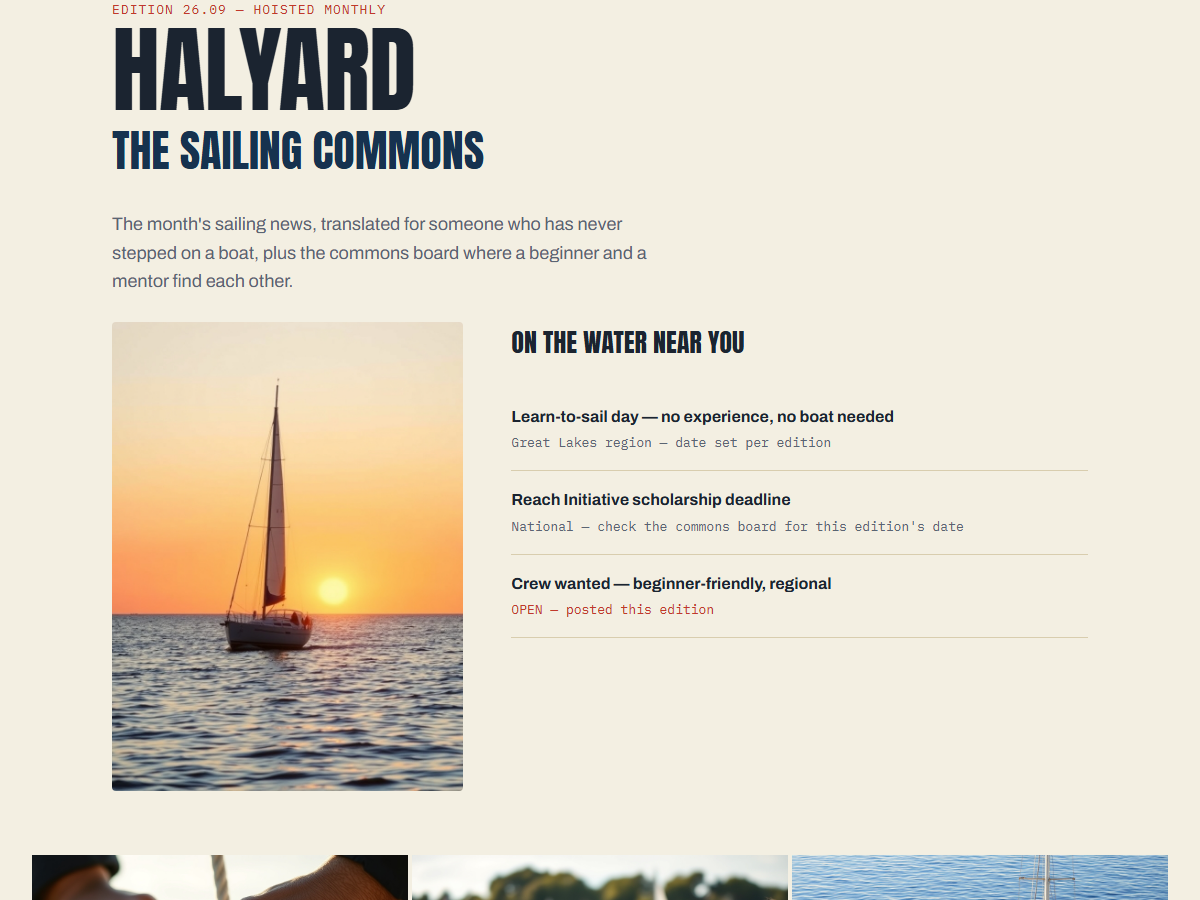
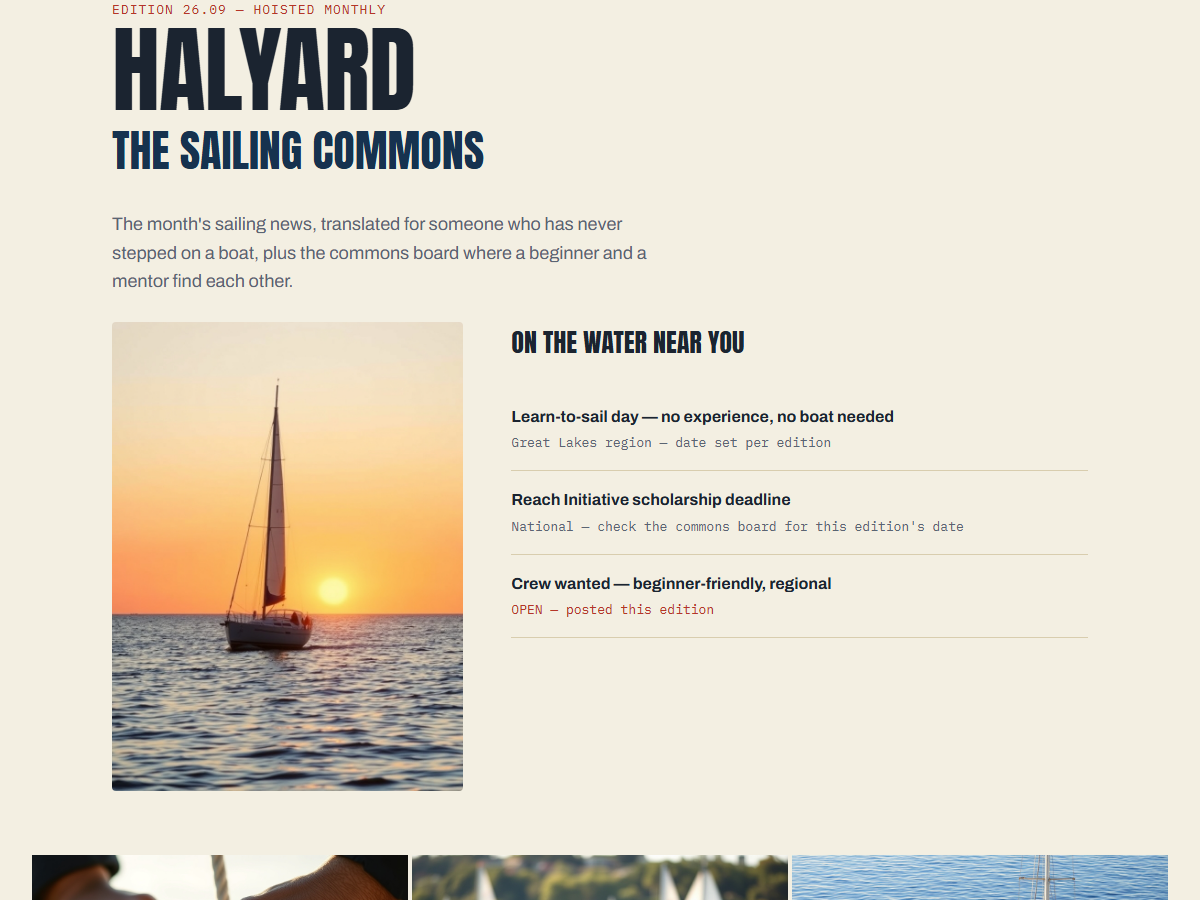
1.6265.1511: replace child imagery, honest image provenance
- Regenerate commons-grid-2.jpg: the 1.0.1 image depicted children, which
  isn't a class of demo content this theme ships regardless of generation
  quality, given the niche often serves youth sailing programs. Replaced
  with adult volunteers; alt text updated to match.
- Correct the Resources section to name the generator (FLUX.1 [schnell],
  Apache 2.0, via Cloudflare Workers AI) instead of only "synthetic".
- Adopt the collection-wide version scheme (1.Y{DDD}.{HHMM}, Toronto time).

Changed region(s): [[0.3392, 0.9333, 0.6783, 1.0]]

diff --git a/style.css b/style.css
@@ -4,7 +4,7 @@ Theme URI:          https://thisismyurl.com/downloads/halyard/
 Author:             Christopher Ross
 Author URI:         https://thisismyurl.com/
 Description:        A bold, condensed FSE theme for teaching-first sailing and community-education sites — a dated-edition front page, a commons-board classifieds layout, and a shipping-bulletin register that never assumes you already know the jargon. Built on the Colophon core.
-Version:            1.0.1
+Version:            1.6265.1511
 Requires at least:  6.7
 Requires PHP:       7.4
 Tested up to:       7.1

diff --git a/patterns/on-the-water.php b/patterns/on-the-water.php
@@ -76,7 +76,7 @@
 		<figure class="wp-block-image"><img src="<?php echo esc_url( get_theme_file_uri( 'assets/images/commons-grid-1.jpg' ) ); ?>" alt="<?php esc_attr_e( 'Two hands tying a knot in a rope at a deck fitting.', 'halyard' ); ?>" style="aspect-ratio:1;object-fit:cover"/></figure>
 		<!-- /wp:image -->
 		<!-- wp:image {"aspectRatio":"1"} -->
-		<figure class="wp-block-image"><img src="<?php echo esc_url( get_theme_file_uri( 'assets/images/commons-grid-2.jpg' ) ); ?>" alt="<?php esc_attr_e( 'Three children in buoyancy aids sitting on the grass beside a dinghy park, laughing.', 'halyard' ); ?>" style="aspect-ratio:1;object-fit:cover"/></figure>
+		<figure class="wp-block-image"><img src="<?php echo esc_url( get_theme_file_uri( 'assets/images/commons-grid-2.jpg' ) ); ?>" alt="<?php esc_attr_e( 'A group of adult sailing volunteers in life jackets, laughing together on a grassy shoreline with sailing dinghies on the water behind them.', 'halyard' ); ?>" style="aspect-ratio:1;object-fit:cover"/></figure>
 		<!-- /wp:image -->
 		<!-- wp:image {"aspectRatio":"1"} -->
 		<figure class="wp-block-image"><img src="<?php echo esc_url( get_theme_file_uri( 'assets/images/commons-grid-3.jpg' ) ); ?>" alt="<?php esc_attr_e( 'A small sailboat tied alongside a weathered wooden dock on flat water.', 'halyard' ); ?>" style="aspect-ratio:1;object-fit:cover"/></figure>

diff --git a/inc/bootstrap.php b/inc/bootstrap.php
@@ -44,7 +44,7 @@ define( 'HALYARD_SLUG', 'halyard' );
  * Theme version — cache-bust for enqueued assets and the WordPress.org version.
  * Keep this in step with the Version header in style.css and Stable tag in readme.txt.
  */
-define( 'HALYARD_VERSION', '1.0.1' );
+define( 'HALYARD_VERSION', '1.6265.1511' );
 
 /**
  * Absolute filesystem path to the theme root (no trailing slash).
